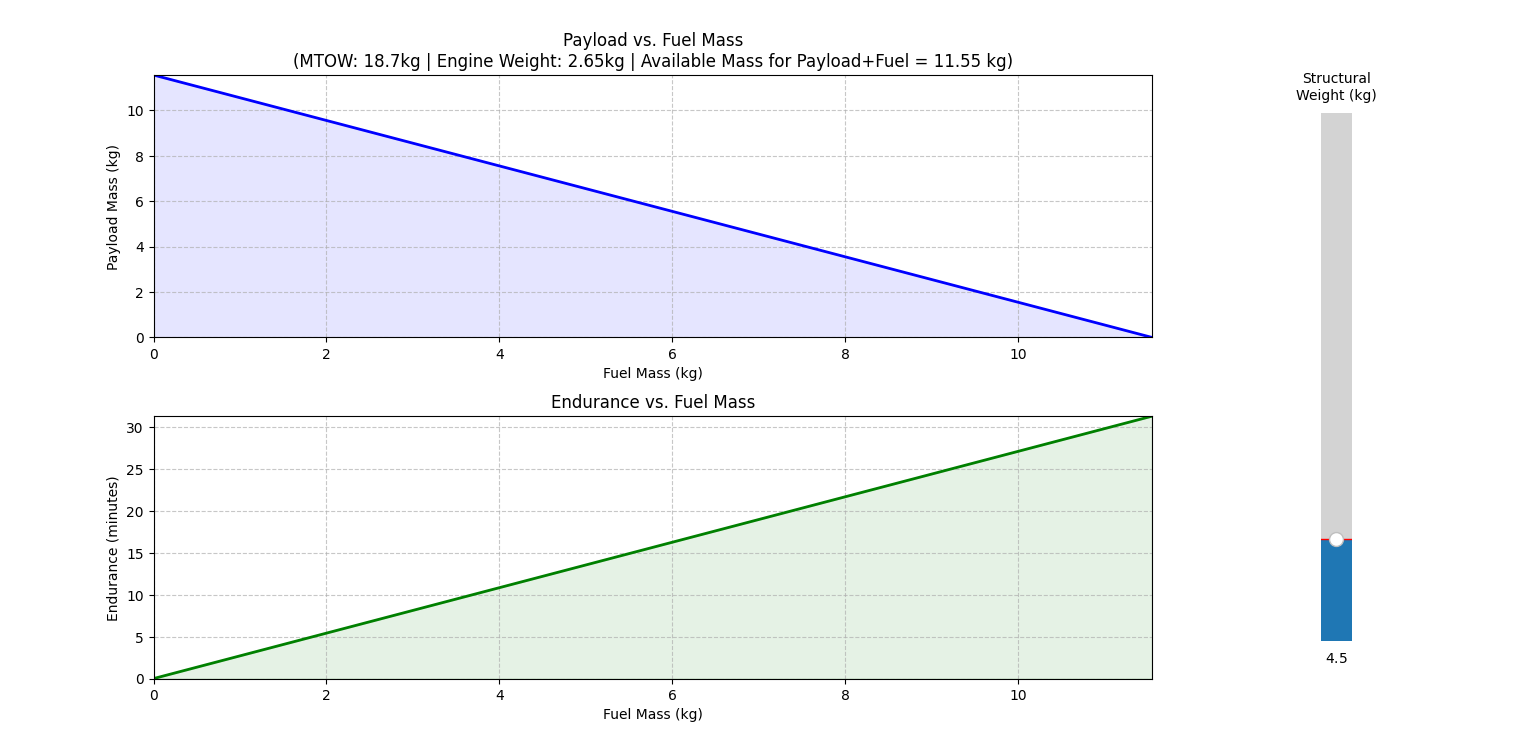
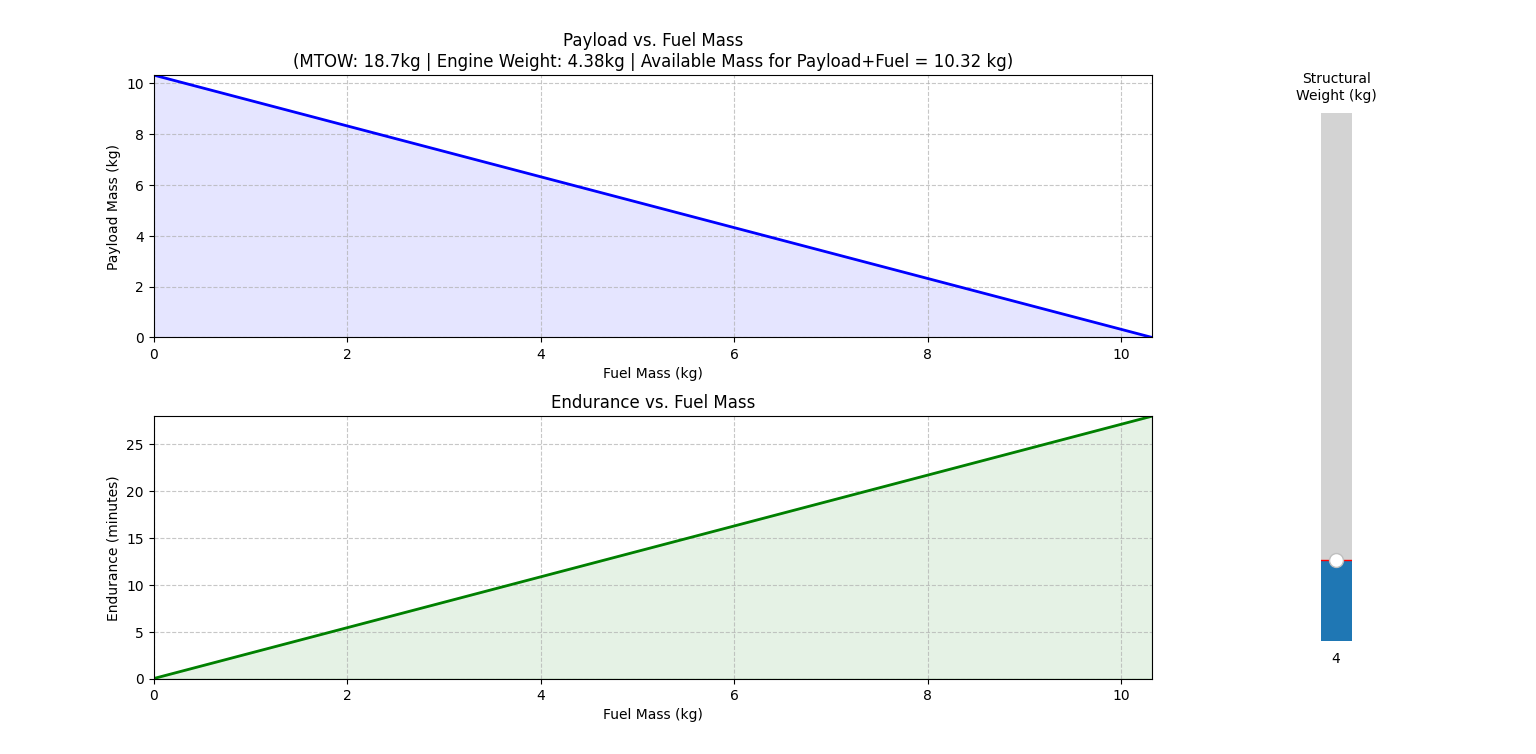
engine weight updated

diff --git a/initial-sizing/weight-estimate.py b/initial-sizing/weight-estimate.py
@@ -4,10 +4,10 @@ from matplotlib.widgets import Slider
 
 # Inputs
 MTOW = 18.7              # Maximum Takeoff Weight (kg)
-ENGINE_WEIGHT = 2.65     # Engine weight (kg)
+ENGINE_WEIGHT = 4.38     # Engine weight (kg)
 FUEL_FLOW = 0.00615      # Fuel flow rate (kg/s)
 
-INIT_STRUCT_WEIGHT = 4.5 # Default structural weight (kg)
+INIT_STRUCT_WEIGHT = 4.0 # Default structural weight (kg)
 
 def calculate_available_mass(struct_wt):
     return MTOW - ENGINE_WEIGHT - struct_wt
